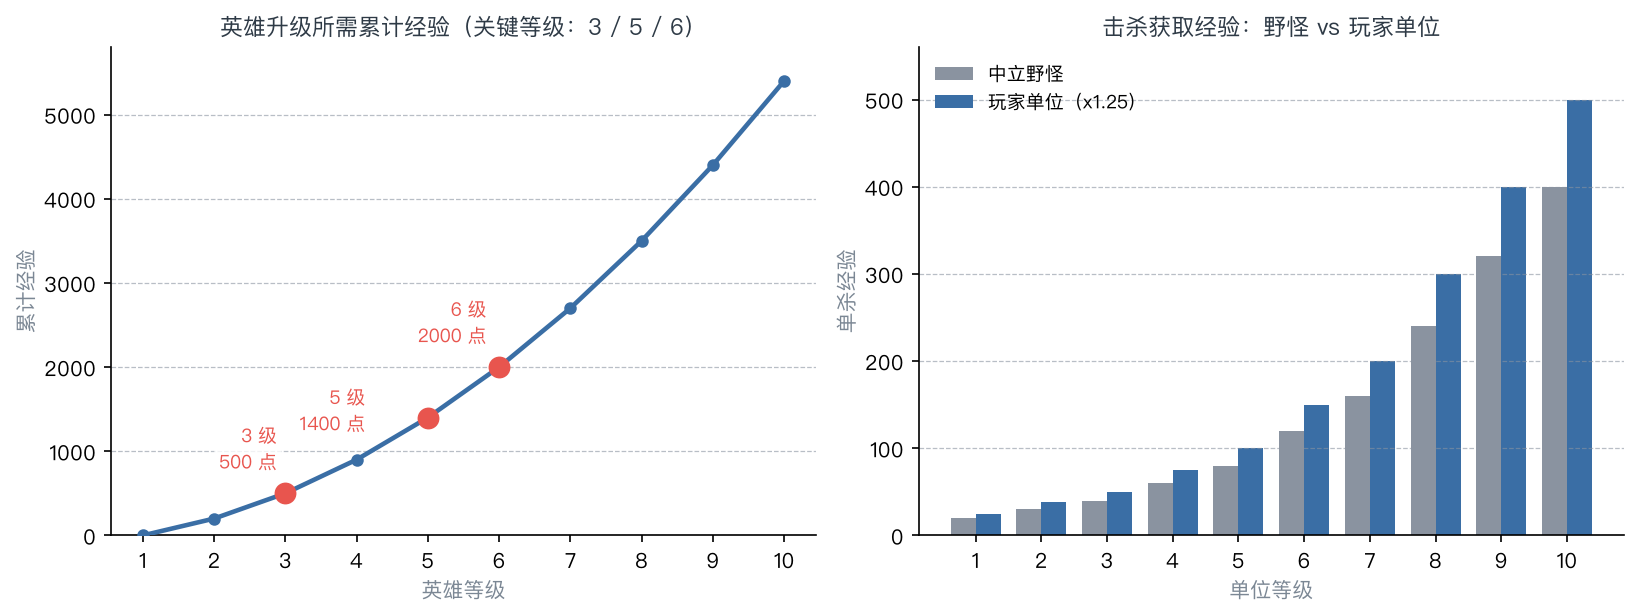
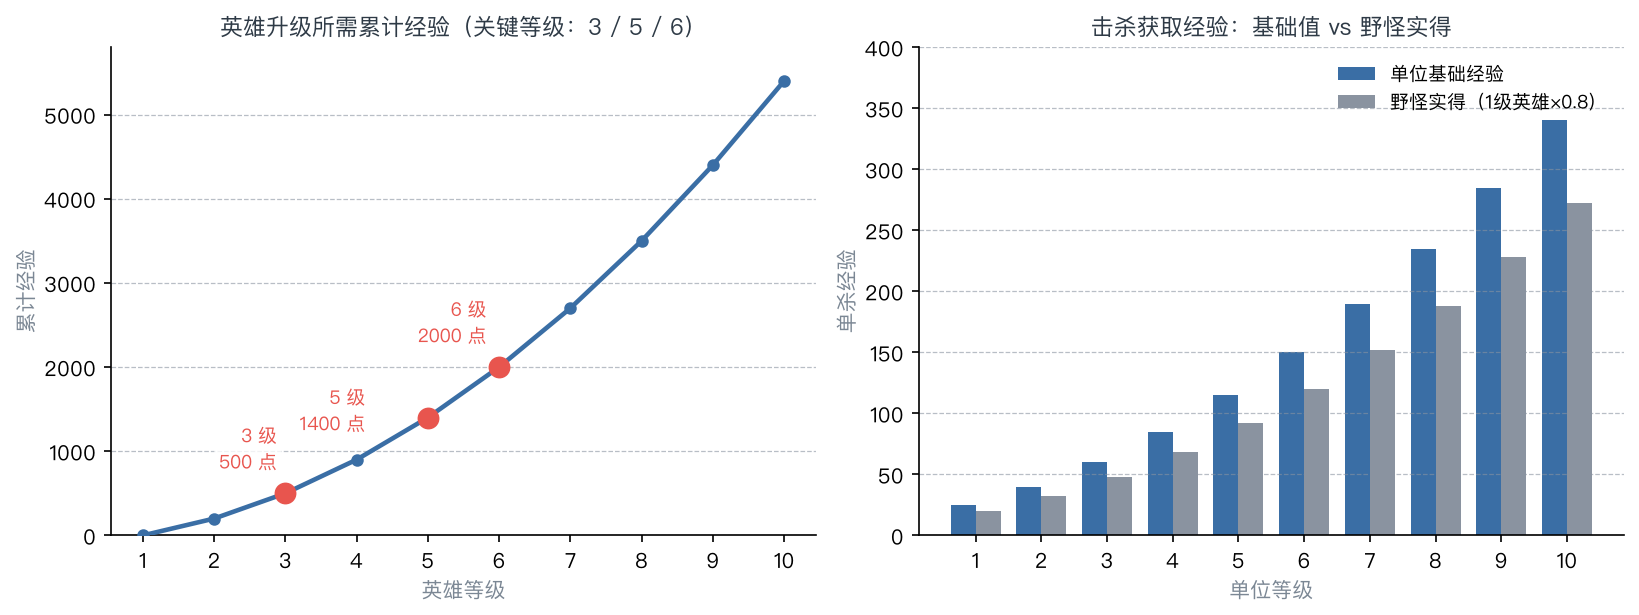
war3: 撤销《待研究清单》、七项内容分发进正文(4.6 中立英雄速查/5.7-5.8 买装+游戏设置/8.5 攻防克制表+伤害算例+地形/10.2 战损三本账/十二章昼夜与时间)；3.1 野怪经验表修正为 1.27 口径(RoC 旧表→25/40/60/85…，CH 实测五点回验 4/5)；NI XP 计算法补齐(①1.6 ②2.2 ③2.8 延伸3.5/3.7)

diff --git a/tools/war3-figures.py b/tools/war3-figures.py
@@ -65,13 +65,13 @@ def fig_xp():
     for s in ("top", "right"):
         ax1.spines[s].set_visible(False)
 
-    neutral = [20, 30, 40, 60, 80, 120, 160, 240, 320, 400]
-    player = [round(x * 1.25) for x in neutral]
+    neutral = [25, 40, 60, 85, 115, 150, 190, 235, 285, 340]
+    player = [round(x * 0.8) for x in neutral]
     w = .38
-    ax2.bar([i - w / 2 for i in lv], neutral, width=w, color=GUIDE, label="中立野怪")
-    ax2.bar([i + w / 2 for i in lv], player, width=w, color=ACCENT, label="玩家单位（x1.25）")
-    ax2.set_ylim(0, 560)
-    ax2.set_title("击杀获取经验：野怪 vs 玩家单位", fontsize=11, color=INK)
+    ax2.bar([i - w / 2 for i in lv], neutral, width=w, color=ACCENT, label="单位基础经验")
+    ax2.bar([i + w / 2 for i in lv], player, width=w, color=GUIDE, label="野怪实得（1级英雄×0.8）")
+    ax2.set_ylim(0, 400)
+    ax2.set_title("击杀获取经验：基础值 vs 野怪实得", fontsize=11, color=INK)
     ax2.set_xlabel("单位等级", color=SUB)
     ax2.set_ylabel("单杀经验", color=SUB)
     ax2.set_xticks(lv)
@@ -682,23 +682,23 @@ def fig_routes():
         ],
         note="5 矿均 12500；医疗泉由红幼龙红点守(Preview 数据)")
 
-    # ---------------- NI：北方群岛（2026-10-13 补抓，S12 图池此前遗漏）
+    # ---------------- NI：北方群岛（2026-10-13 补抓，S12 图池此前遗漏；XP=battle.net怪等级+Liquipedia公式计算）
     draw_data("ni", "Northern Isles 练级路线（真实地图标注）",
         my=(0.059, 0.787), opp=(0.866, 0.094), my_lab=("left", "bottom"),
         steps=[
-            (0.246, 0.953, "① 门口绿点·食人魔", "推演路线, XP 待实测", "left", "bottom"),
-            (0.376, 0.705, "② 鱼人绿点", "", "center", "top"),
-            (0.492, 0.822, "③ 分矿营", "顺势开分矿(10000金)", "center", "top"),
+            (0.246, 0.953, "① 门口绿点·食人魔", "推演·计算 1.6", "left", "bottom"),
+            (0.376, 0.705, "② 鱼人绿点", "2.2", "center", "top"),
+            (0.492, 0.822, "③ 分矿营", "2.8 顺势开分矿(10000金)", "center", "top"),
         ],
         extras=[
             (0.10, 0.845, "主矿 13500", "center", "top"),
-            (0.163, 0.135, "角落矿 9000\n猛犸红点守(掉永久5)", "left", "top"),
+            (0.163, 0.135, "角落矿 9000\n猛犸红点守(掉永久5)\n直取后 3.7", "left", "top"),
         ],
         routes=[([(0.246, 0.953), (0.376, 0.705), (0.492, 0.822)], C, "-",
                  "门口→鱼人→分矿营"),
                 ([(0.492, 0.822), (0.274, 0.405)], B, "--",
-                 "延伸 分矿→实验室前营")],
-        note="1酒馆+2实验室+1商店+1市场；主矿13500/分矿10000/角落矿9000(Preview 数据)")
+                 "延伸 分矿→实验室前营(3.5)")],
+        note="1酒馆+2实验室+1商店+1市场；主矿13500/分矿10000/角落矿9000(Preview 数据)；等级=推演·计算(1本单英雄口径)")
 
 
 if __name__ == "__main__":
